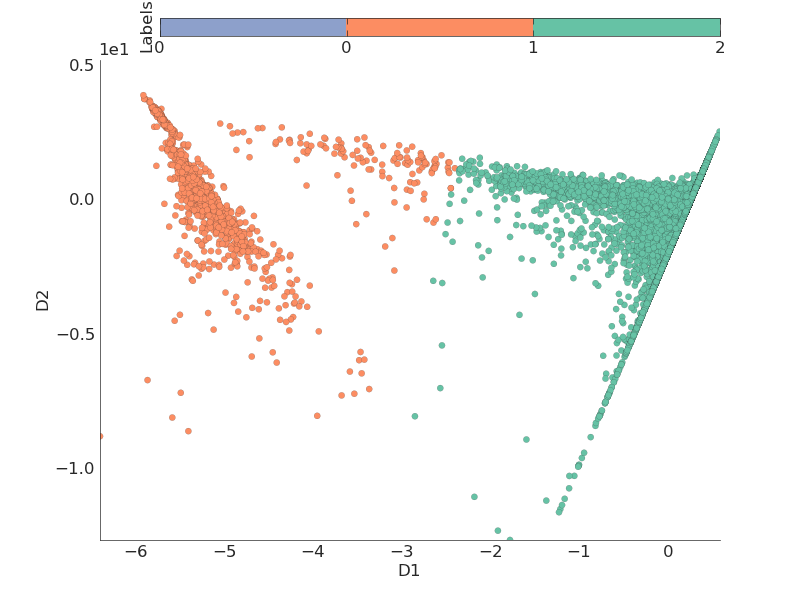
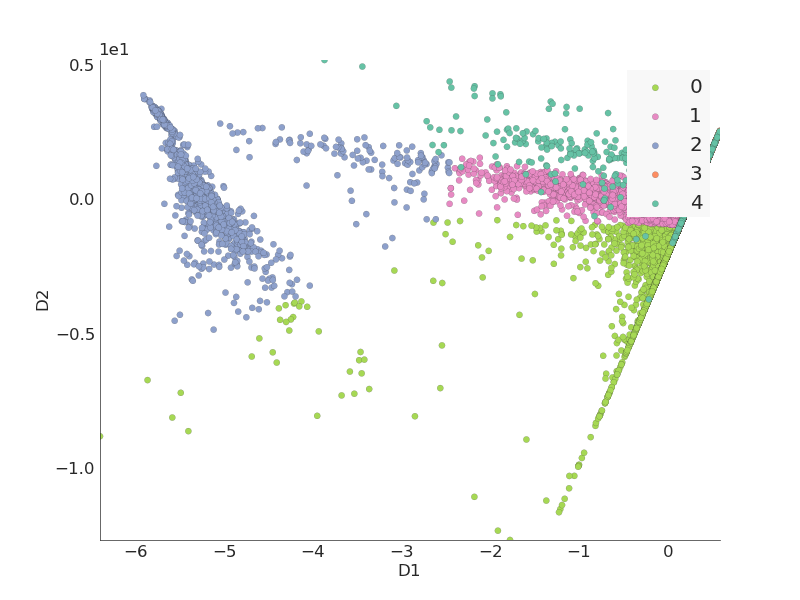
Adds function for plotting labelled data

diff --git a/python/plotting.py b/python/plotting.py
@@ -123,6 +123,40 @@ def make_color_grouped_scatter_plot(data_frame, x_name, y_name, color_by, filena
     fig.savefig(filename)
 
 
+def make_scatter_plot_for_labelled_data(data_frame, x_name, y_name, labels, filename, colormap, x_function = 'dummy', y_function = 'dummy', legend = False):
+    ### Originally created for issue_28
+    def dummy(a): return a
+    p = Ppl(colormap, alpha=1)
+
+    fig, ax = plt.subplots(1)
+    #ax.set_autoscale_on(False)
+    ax.set_xlim([eval(x_function)(min(data_frame[x_name])), eval(x_function)(max(data_frame[x_name]))])
+    ax.set_ylim([eval(y_function)(min(data_frame[y_name])), eval(y_function)(max(data_frame[y_name]))])
+    x_label = x_name.capitalize().replace('_', ' ')
+    if x_function == 'log': x_label += ' (log)'
+    y_label = y_name.capitalize().replace('_', ' ')
+    if y_function == 'log': y_label += ' (log)'
+    ax.set_xlabel(x_label)
+    ax.set_ylabel(y_label)
+    ax.xaxis.get_major_formatter().set_powerlimits((0, 1))
+    ax.yaxis.get_major_formatter().set_powerlimits((0, 1))
+    # Show the whole color range
+    
+    n_labels  = labels.max()
+
+    for g in range(n_labels + 1):
+        print g
+        x = eval(x_function)(data_frame[labels == g][x_name])
+        y = eval(y_function)(data_frame[labels == g][y_name])
+        p.scatter(ax, x, y, label=str(g))
+
+    if legend: p.legend(ax)
+    #ax.set_title('prettyplotlib `scatter` example\nshowing default color cycle and scatter params')
+    
+
+    fig.savefig(filename)
+
+
 """
 def save_line_plot(all_data, prefix, x_axis_name = "", y_axis_name = [""], all_parameters = {}):
     assert x_axis_name in all_data.dtype.names, "x axis parameter not found"

diff --git a/python/thesis_plots.py b/python/thesis_plots.py
@@ -42,7 +42,7 @@ def plot_issue_26():
 	"""
 	from sklearn.decomposition import PCA
 	from sklearn.cluster import KMeans
-	from plotting import make_color_grouped_scatter_plot
+	from plotting import make_color_grouped_scatter_plot, make_scatter_plot_for_labelled_data
 	datapath = '/Users/halfdan/Dropbox/Waseda/Research/MarketSimulation/tex/datasets/d1_sameLatDist_ssmm40_sc100/'
 	#par = pandas.read_pickle(datapath + 'pars.pandas')
 	fit = pandas.read_pickle(datapath + 'fits.pandas')
@@ -57,14 +57,12 @@ def plot_issue_26():
 	filename = figure_save_path + 'issue_26_PCA_a_3components.png'
 	make_color_grouped_scatter_plot(data_frame=df, x_name='d1', y_name='d2', color_by='d3', filename=filename, colormap=colormap)
 
-	kmeans = KMeans(n_clusters = 3)
+	n_clusters = 5
+	kmeans = KMeans(n_clusters = n_clusters)
 	kmeans.fit(t)
-	df['labels'] = kmeans.labels_
-	print len(df['d1'])
-	print len(kmeans.labels_)
-	colormap = brewer2mpl.get_map('Set2', 'Qualitative', 3, reverse=True)
+	colormap = brewer2mpl.get_map('Set2', 'Qualitative', n_clusters, reverse=True)
 	filename = figure_save_path + 'issue_26_PCA_b_clusters.png'
-	make_color_grouped_scatter_plot(data_frame=df, x_name='d1', y_name='d2', color_by='labels', filename=filename, colormap = colormap)
+	make_scatter_plot_for_labelled_data(data_frame=df, x_name='d1', y_name='d2', labels=kmeans.labels_, filename=filename, colormap = colormap, legend=True)
 
 def remake_all_plots():
 	plot_issue_21()
